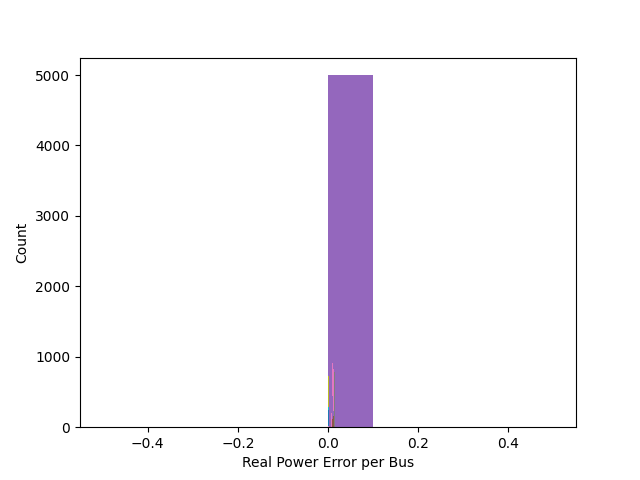
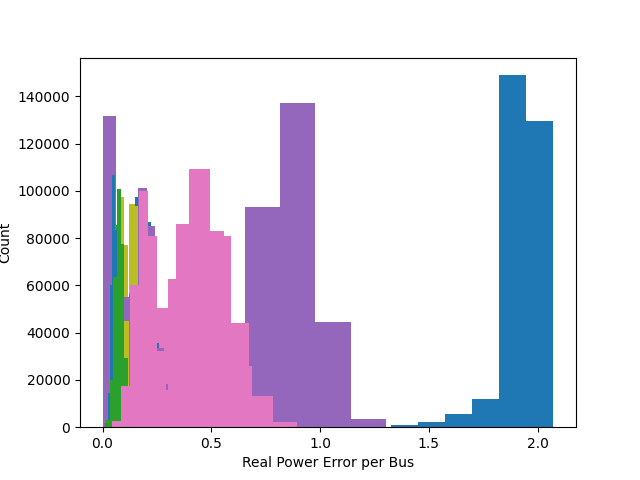
Bus type training

diff --git a/equations/real_power_equation.py b/equations/real_power_equation.py
@@ -5,16 +5,16 @@ from typing import List
 import matplotlib.pyplot as plt
 from .equation import Equation
 
-V_IDX = 5
-THETA_IDX = 4
-GEN_MW_IDX = 1
-LOAD_MW_IDX = 3
+V_IDX = 3
+THETA_IDX = 2
+MW_IDX = 1
 class RealPowerEquation(Equation):
 
-    def __init__(self, n_buses, bus_num, admittance_file) -> None:
+    def __init__(self, n_buses, bus_num, admittance_file, bus_type_file) -> None:
         self.n_buses = n_buses
         self.bus_num = bus_num
         self.admittance = pd.read_csv(admittance_file).fillna("").map(RealPowerEquation._to_complex)
+        self.bus_types = pd.read_csv(bus_type_file)
         self.bus_losses = []
 
     @classmethod
@@ -29,24 +29,22 @@ class RealPowerEquation(Equation):
             return complex(s)
         
     def evaluate(self, states):
-        k_base_idx = 6 * self.bus_num
+        k_base_idx = 4 * self.bus_num
         v_k = states[k_base_idx + V_IDX]
-        load_k = states[k_base_idx + LOAD_MW_IDX]
-        generator_k = states[k_base_idx + GEN_MW_IDX]
+        power_k = states[k_base_idx + MW_IDX]
         theta_k = states[k_base_idx + THETA_IDX]
 
         bus_loss = 0
         for bus_j in range(self.n_buses):
-            j_base_idk = 6 * bus_j
-            v_j = states[j_base_idk + V_IDX]
+            j_base_idk = 4 * bus_j
             theta_j = states[j_base_idk + THETA_IDX]
+            v_j = states[j_base_idk + V_IDX]
             radians = (np.pi / 180) * (theta_k - theta_j)
             bus_power =  v_j * (self.admittance.iloc[self.bus_num, bus_j].real * np.cos(radians)
                                 + self.admittance.iloc[self.bus_num, bus_j].imag * np.sin(radians))
             bus_loss += bus_power
         bus_loss *= v_k
-        bus_loss -= generator_k
-        bus_loss += load_k
+        bus_loss -= power_k
         # print(bus_k, bus_loss)
         self.bus_losses.append(np.abs(bus_loss))
         return bus_loss ** 2
@@ -55,26 +53,46 @@ class RealPowerEquation(Equation):
     def confidence_loss(self, input_states: torch.Tensor, network_outputs: torch.tensor, targets: torch.Tensor) -> torch.Tensor:
         # Inputs : generation, loads
         # Outputs : voltage magnitude and angle
-        k_bus_inputs = 4 * self.bus_num
-        k_bus_outputs = 2 * self.bus_num
-        load_mw_k = input_states[:, k_bus_inputs + LOAD_MW_IDX]
-        generator_mw_k = input_states[:, k_bus_inputs + GEN_MW_IDX]
-        theta_k = network_outputs[:, k_bus_outputs]
-        v_k = network_outputs[:, k_bus_outputs + 1]
-
+        k_bus_idx = 2 * self.bus_num
+        bus_type = self.bus_types.iloc[self.bus_num, 0]
+        if bus_type == 1:
+            # PQ
+            power_k = input_states[:, k_bus_idx+ 1]
+            theta_k = network_outputs[:, k_bus_idx]
+            v_k = network_outputs[:, k_bus_idx + 1]
+        elif bus_type == 2:
+            # PV
+            power_k = input_states[:, k_bus_idx + 1]
+            theta_k = network_outputs[:, k_bus_idx + 1]
+            v_k = input_states[:, k_bus_idx + 1]
+        elif bus_type == 3:
+            power_k = network_outputs[:, k_bus_idx + 1] 
+            theta_k = input_states[:, k_bus_idx]
+            v_k = input_states[:, k_bus_idx + 1]
+        print(v_k)
         bus_loss = 0
         for bus_j in range(self.n_buses):
             j_bus_idx = 2 * bus_j
-            v_j = network_outputs[:, j_bus_idx + 1]
-            theta_j = network_outputs[:, j_bus_idx]
+            bus_type = self.bus_types.iloc[bus_j, 0]
+            if bus_type == 1:
+                # PQ
+                theta_j = network_outputs[:, j_bus_idx]
+                v_j = network_outputs[:, j_bus_idx + 1]
+            elif bus_type == 2:
+                # PV
+                theta_j = network_outputs[:, j_bus_idx + 1]
+                v_j = input_states[:, j_bus_idx + 1]
+            elif bus_type == 3:
+                theta_j = input_states[:, j_bus_idx]
+                v_j = input_states[:, j_bus_idx + 1]
+                
             radians = (torch.pi / 180) * (theta_k - theta_j)
 
             bus_power = torch.abs(v_j) * (self.admittance.iloc[self.bus_num, bus_j].real * torch.cos(radians)
                                             + self.admittance.iloc[self.bus_num, bus_j].imag * torch.sin(radians))
             bus_loss += bus_power
         bus_loss *= torch.abs(v_k)
-        bus_loss -= generator_mw_k
-        bus_loss += load_mw_k
+        bus_loss -= power_k
         return bus_loss ** 2
     
     def loss_plot(self):

diff --git a/equations/reactive_power_equation.py b/equations/reactive_power_equation.py
@@ -5,15 +5,15 @@ from typing import List
 import matplotlib.pyplot as plt
 from .equation import Equation
 
-V_IDX = 5
-THETA_IDX = 4
-GEN_MVAR_IDX = 0
-LOAD_MVAR_IDX = 2
+V_IDX = 3
+THETA_IDX = 2
+MVAR_IDX = 0
 class ReactivePowerEquation(Equation):
-    def __init__(self, n_buses, bus_num, admittance_file, base_mva=100) -> None:
+    def __init__(self, n_buses, bus_num, admittance_file, bus_type_file) -> None:
         self.n_buses = n_buses
         self.bus_num = bus_num
         self.admittance = pd.read_csv(admittance_file).fillna("").map(ReactivePowerEquation._to_complex)
+        self.bus_types = pd.read_csv(bus_type_file)
         self.bus_losses = []
 
     @classmethod
@@ -28,15 +28,14 @@ class ReactivePowerEquation(Equation):
             return complex(s)
     
     def evaluate(self, states):
-        k_base_idx = 6 * self.bus_num
+        k_base_idx = 4 * self.bus_num
         v_k = states[k_base_idx + V_IDX]
-        load_k = states[k_base_idx+ LOAD_MVAR_IDX]
-        generator_k = states[k_base_idx + GEN_MVAR_IDX]
+        power_k = states[k_base_idx + MVAR_IDX]
         theta_k = states[k_base_idx + THETA_IDX]
 
         bus_loss = 0
         for bus_j in range(self.n_buses):
-            j_base_idx = 6 * bus_j
+            j_base_idx = 4 * bus_j
             v_j = states[j_base_idx + V_IDX]
             theta_j = states[j_base_idx + THETA_IDX]
             radians = (np.pi / 180) * (theta_k - theta_j)
@@ -44,32 +43,52 @@ class ReactivePowerEquation(Equation):
                                 - self.admittance.iloc[self.bus_num, bus_j].imag * np.cos(radians))
             bus_loss += bus_power
         bus_loss *= v_k
-        bus_loss -= generator_k
-        bus_loss += load_k
+        bus_loss -= power_k
         self.bus_losses.append(np.abs(bus_loss))
         return bus_loss ** 2
     
     def confidence_loss(self, input_states: torch.Tensor, network_outputs: torch.tensor, targets: torch.Tensor) -> torch.Tensor:
-        k_bus_inputs = 4 * self.bus_num
-        k_bus_outputs = 2 * self.bus_num
-        load_k = input_states[:, k_bus_inputs + LOAD_MVAR_IDX]
-        generator_k = input_states[:, k_bus_inputs + GEN_MVAR_IDX]
-        theta_k = network_outputs[:, k_bus_outputs]
-        v_k = network_outputs[:, k_bus_outputs + 1]
+        k_bus_idx = 2 * self.bus_num
+        bus_type = self.bus_types.iloc[self.bus_num, 0]
+        if bus_type  == 1:
+            # PQ
+            power_k = input_states[:, k_bus_idx + MVAR_IDX]
+            theta_k = network_outputs[:, k_bus_idx]
+            v_k = network_outputs[:, k_bus_idx + 1]
+        elif bus_type == 2:
+            # PV 
+            power_k = network_outputs[:, k_bus_idx]
+            theta_k = network_outputs[:, k_bus_idx + 1]
+            v_k = input_states[:, k_bus_idx + 1]
+        elif bus_type == 3:
+            # Slack
+            power_k = network_outputs[:, k_bus_idx]
+            theta_k = input_states[:, k_bus_idx]
+            v_k = input_states[:, k_bus_idx + 1]
 
         bus_loss = 0
         for bus_j in range(self.n_buses):
             j_bus_idx = 2 * bus_j
-            theta_j = network_outputs[:, j_bus_idx]
-            v_j = network_outputs[:, j_bus_idx + 1]
+            bus_type = self.bus_types.iloc[bus_j, 0]
+            if bus_type == 1:
+                # PQ
+                theta_j = network_outputs[:, j_bus_idx]
+                v_j = network_outputs[:, j_bus_idx + 1]
+            elif bus_type == 2:
+                # PV
+                theta_j = network_outputs[:, j_bus_idx]
+                v_j = input_states[:, j_bus_idx + 1]
+            elif bus_type == 3:
+                theta_j = input_states[:, j_bus_idx]
+                v_j = input_states[:, j_bus_idx + 1]
+
             radians = (torch.pi / 180) * (theta_k - theta_j)
 
             bus_power = v_j * (self.admittance.iloc[self.bus_num, bus_j].real * torch.sin(radians)
                                 - self.admittance.iloc[self.bus_num, bus_j].imag * torch.cos(radians))
             bus_loss += bus_power
         bus_loss *= v_k
-        bus_loss -= generator_k
-        bus_loss += load_k
+        bus_loss -= power_k
         return bus_loss ** 2
     
     def loss_plot(self):

diff --git a/datasets/grid_dataset.py b/datasets/grid_dataset.py
@@ -9,6 +9,7 @@ class GridDataset(ICSDataset):
     def __init__(self, conf, data_path, train, window_size=1):
         super().__init__(conf, window_size, train)
         self.data = pd.read_csv(data_path)
+        self.types = pd.read_csv(conf["data"]["types"])
         self.mva_base = conf["data"]["mva_base"]
         self.n_buses = conf["data"]["n_buses"]
         self.powerworld = conf["data"]["powerworld"]
@@ -19,14 +20,45 @@ class GridDataset(ICSDataset):
         self._per_unit()
         print(np.min(self.features), np.max(self.features))
 
-        self.gen_load_mask = []
-        self.voltage_mask = []
+        self.input_mask = []
+        self.output_mask = []
         for bus in range(self.n_buses):
-            bus_base_idx = 6 * bus
-            for i in range(4):
-                self.gen_load_mask.append(bus_base_idx + i)
-            self.voltage_mask.append(bus_base_idx + 4)
-            self.voltage_mask.append(bus_base_idx + 5)
+            bus_base_idx = 4 * bus
+            bus_type = self.types.iloc[bus, 0]
+            if bus_type == 1:
+                # PQ
+                # reactive
+                self.input_mask.append(bus_base_idx)
+                # real
+                self.input_mask.append(bus_base_idx + 1)
+                # voltage angle
+                self.output_mask.append(bus_base_idx + 2)
+                # voltage mag
+                self.output_mask.append(bus_base_idx + 3)
+            elif bus_type == 2:
+                # PV 
+                # real
+                self.input_mask.append(bus_base_idx + 1)
+                # voltage mag
+                self.input_mask.append(bus_base_idx + 3)
+                # reactive 
+                self.output_mask.append(bus_base_idx)
+                # voltage angle
+                self.output_mask.append(bus_base_idx + 2)
+            elif bus_type == 3:
+                # Slack bus
+                # voltage angle 
+                self.input_mask.append(bus_base_idx + 2)
+                # voltage mag
+                self.input_mask.append(bus_base_idx + 3)
+                # reactive
+                self.output_mask.append(bus_base_idx)
+                # real
+                self.output_mask.append(bus_base_idx + 1)
+
+            else:
+                raise RuntimeError("Unknown bus type")
+            
         self.get_attack_map()
 
     def _per_unit(self):
@@ -46,14 +78,29 @@ class GridDataset(ICSDataset):
             for bus in reversed(range(self.n_buses)):
                 volt_kv_idx = 7 * bus + 6
                 self.features = np.delete(self.features, volt_kv_idx, axis=1)
+        
+        for bus in range(self.n_buses):
+            bus_idx = 6 * bus
+            gen_mvar = self.features[:, bus_idx]
+            load_mvar = self.features[:, bus_idx + 2]
+            self.features[:, bus_idx] = gen_mvar - load_mvar
+
+            gen_mw = self.features[:, bus_idx + 1]
+            load_mw = self.features[:, bus_idx + 3]
+            self.features[:, bus_idx + 1] = gen_mw - load_mw
+
+        for bus in reversed(range(self.n_buses)):
+            bus_idx = 6 * bus
+            self.features = np.delete(self.features, bus_idx + 3, axis=1)
+            self.features = np.delete(self.features, bus_idx + 1, axis=1)
 
     def __len__(self):
         return len(self.features)
     
     def __getitem__(self, item):
         feat = self.features[item]
-        inputs = feat[self.gen_load_mask]
-        targets = feat[self.voltage_mask]
+        inputs = feat[self.input_mask]
+        targets = feat[self.output_mask]
         if self.train:
             return inputs, targets
         else:

diff --git a/equations/build_equations.py b/equations/build_equations.py
@@ -73,7 +73,8 @@ def build_equations(conf, categorical_idxs, continuous_idxs):
     elif dataset == "grid":
         n_buses = conf["data"]["n_buses"]
         admittance = conf["data"]["ybus"]
+        bus_types = conf["data"]["types"]
         for i in range(n_buses):
-            equations.append(RealPowerEquation(n_buses, i, admittance))
-            equations.append(ReactivePowerEquation(n_buses, i, admittance))
+            equations.append(RealPowerEquation(n_buses, i, admittance, bus_types))
+            equations.append(ReactivePowerEquation(n_buses, i, admittance, bus_types))
     return equations

diff --git a/training/pinn_trainer.py b/training/pinn_trainer.py
@@ -26,7 +26,7 @@ class PINNTrainer:
         self.checkpoint_path = path.join(self.checkpoint_dir, "model.pt")
         self.size = self.conf["train"]["gpus"]
 
-        self.model = FCN(conf, 4 * self.n_buses, 2 * self.n_buses)
+        self.model = FCN(conf, 2 * self.n_buses, 2 * self.n_buses)
         self.equations = build_equations(conf, dataset.get_categorical_features(), 
                                          dataset.get_continuous_features())
         
